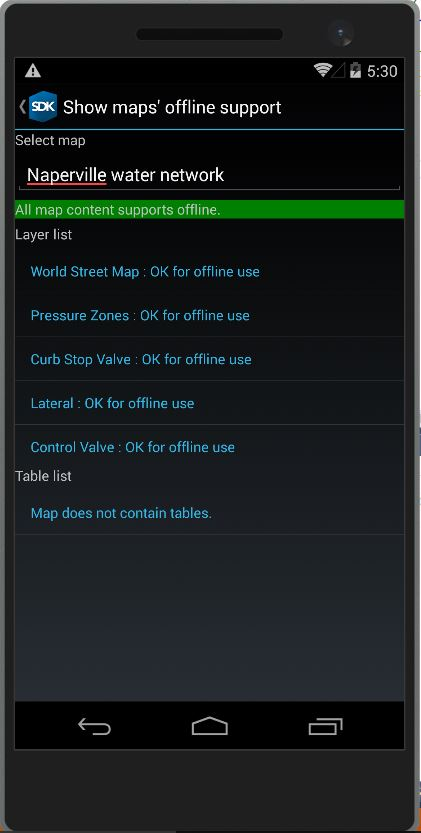
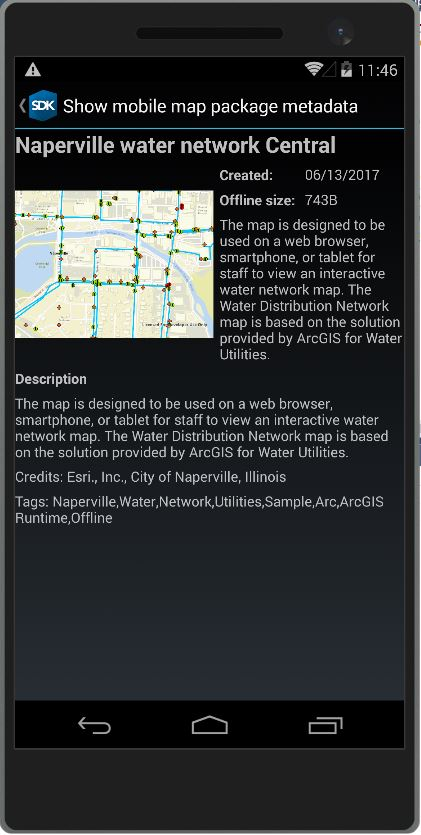
Updated ShowMobileMapPackage sample.

diff --git a/src/Forms/Shared/Samples/Offline/ShowMobileMapPackage/ShowMobileMapPackage.xaml b/src/Forms/Shared/Samples/Offline/ShowMobileMapPackage/ShowMobileMapPackage.xaml
@@ -4,20 +4,76 @@
              xmlns:esriUI="clr-namespace:Esri.ArcGISRuntime.Xamarin.Forms;assembly=Esri.ArcGISRuntime.Xamarin.Forms"
              x:Class="ArcGISRuntimeXamarin.Samples.ShowMobileMapPackage.ShowMobileMapPackage">
     <Grid>
-        <Grid.RowDefinitions>
-            <RowDefinition Height="Auto" />
-            <!-- Status label -->
-            <RowDefinition Height="Auto" />
-            <!-- Download button -->
-            <RowDefinition Height="*" />
-            <!-- MapView -->
-        </Grid.RowDefinitions>
-        <Label x:Name="Status"
-               Text="Opening offline map..." />
-        <Button x:Name="Download"
-                Text="Download Data"
-                Clicked="OnDownloadDataClicked"
-                IsVisible="False"
-                Grid.Row="1" />
+        <Grid x:Name="ItemInfo"
+              IsVisible="False">
+            <Grid.RowDefinitions>
+                <RowDefinition Height="Auto" />                <!-- title -->
+                <RowDefinition Height="Auto" />                <!-- thumbnail, creation date, size, snippet -->
+                <RowDefinition Height="Auto" />                <!-- description label -->
+                <RowDefinition Height="Auto" />                <!-- description -->
+                <RowDefinition Height="Auto" />                <!-- credits -->
+                <RowDefinition Height="Auto" />                <!-- tags -->
+            </Grid.RowDefinitions>
+            <Label x:Name="ItemTitle"
+                   FontSize="Large"
+                   FontAttributes="Bold" />
+            <Grid Grid.Row="1">
+                <Grid.ColumnDefinitions>
+                    <ColumnDefinition Width="Auto" />
+                    <ColumnDefinition Width="*" />
+                </Grid.ColumnDefinitions>
+                <Image x:Name="ItemImage"
+                       HeightRequest="200" 
+                       WidthRequest="200"/>
+                <Grid Grid.Column="1">
+                    <Grid.RowDefinitions>
+                        <RowDefinition Height="Auto" />                       <!-- Creation date -->
+                        <RowDefinition Height="Auto" />                       <!-- Size -->
+                        <RowDefinition Height="Auto" />                       <!-- Snippet -->
+                    </Grid.RowDefinitions>
+                    <Grid.ColumnDefinitions>
+                        <ColumnDefinition Width="Auto" />
+                        <ColumnDefinition Width="*" />
+                    </Grid.ColumnDefinitions>
+                    <Label Text="Created: "
+                           FontAttributes="Bold" />
+                    <Label x:Name="ItemCreationDate"
+                           Grid.Column="1" />
+                    <Label Text="Offline size: "
+                           FontAttributes="Bold"
+                           Grid.Row="1" />
+                    <Label x:Name="ItemSize"
+                           Grid.Row="1"
+                           Grid.Column="1" />
+                    <Label x:Name="ItemSnippet"
+                           Grid.Row="2"
+                           Grid.ColumnSpan="2" />
+                </Grid>
+            </Grid>
+            <Label Text="Description"
+                   FontSize="14"
+                   FontAttributes="Bold"
+                   Grid.Row="2" />
+            <Label x:Name="ItemDescription"
+                   Grid.Row="3" />
+            <Label x:Name="ItemCredits"
+                   Grid.Row="4" />
+            <Label x:Name="ItemTags"
+                   Grid.Row="5" />
+        </Grid>
+        <Grid x:Name="DownloadInfo"
+              BackgroundColor="Black"
+              IsVisible="False">
+            <Grid.RowDefinitions>
+                <RowDefinition Height="Auto" />
+                <!-- Status -->
+                <RowDefinition Height="Auto" />
+                <!-- Download button -->
+            </Grid.RowDefinitions>
+            <Label Text="Please download the data for the sample." />
+            <Button Text="Download Data"
+                    Clicked="OnDownloadDataClicked"
+                    Grid.Row="1" />
+        </Grid>
     </Grid>
 </ContentPage>

diff --git a/src/Forms/Shared/Samples/Offline/ShowMobileMapPackage/ShowMobileMapPackage.xaml.cs b/src/Forms/Shared/Samples/Offline/ShowMobileMapPackage/ShowMobileMapPackage.xaml.cs
@@ -8,8 +8,15 @@
 // language governing permissions and limitations under the License.
 
 using ArcGISRuntimeXamarin.Managers;
+using Esri.ArcGISRuntime.Mapping;
+using Esri.ArcGISRuntime.Symbology;
 using System;
+using System.IO;
+using System.Linq;
+using System.Text.RegularExpressions;
+using System.Threading.Tasks;
 using Xamarin.Forms;
+
 
 namespace ArcGISRuntimeXamarin.Samples.ShowMobileMapPackage
 {
@@ -21,7 +28,63 @@ namespace ArcGISRuntimeXamarin.Samples.ShowMobileMapPackage
             InitializeComponent();
 
             Title = "Show mobile map package metadata";
-            
+
+            InitializeAsync();
+        }
+
+        private async Task InitializeAsync()
+        {
+            try
+            {
+                // Get path to the used data. This can be a mobile map package (.mmpk) file or 
+                // an exploded mobile map package (folder that contains .info file).
+                var dataPath = Path.Combine(DataManager.GetDataFolder(),
+                    "SampleData", "Show mobile map package metadata", "NaperilleWaterNetwork_mmpk");
+                
+                // Open a local mobile map package
+                var myMobileMapPackage = await MobileMapPackage.OpenAsync(dataPath);
+
+                ItemTitle.Text = myMobileMapPackage.Item.Title;
+
+                var stream = await myMobileMapPackage.Item.Thumbnail.GetEncodedBufferAsync();
+                ItemImage.Source = ImageSource.FromStream(() => stream);
+
+                ItemCreationDate.Text = myMobileMapPackage.Item.Created.ToLocalTime().ToString("MM/dd/yyyy HH:mm:ss");
+                ItemSnippet.Text = myMobileMapPackage.Item.Snippet;
+                ItemDescription.Text = RemoveHtmlTags(myMobileMapPackage.Item.Description);
+                ItemCredits.Text = $"Credits: {myMobileMapPackage.Item.AccessInformation}";
+                ItemTags.Text = $"Tags: {string.Join(",", myMobileMapPackage.Item.Tags)}";
+
+                ItemSize.Text = BytesToString(Directory.GetFiles(dataPath, "*", SearchOption.AllDirectories).Sum(f => f.Length));
+
+                ItemInfo.IsVisible = true;
+                DownloadInfo.IsVisible = false;                 
+            }
+            catch (FileNotFoundException)
+            {
+                ItemInfo.IsVisible = false;
+                DownloadInfo.IsVisible = true;
+            }
+            catch (Exception ex)
+            {
+                await DisplayAlert("Error", ex.Message, "OK");
+            }
+        }
+
+        private string BytesToString(long byteCount)
+        {
+            string[] suf = { "B", "KB", "MB", "GB", "TB", "PB", "EB" }; // Longs run out around EB
+            if (byteCount == 0)
+                return "0" + suf[0];
+            long bytes = Math.Abs(byteCount);
+            int place = Convert.ToInt32(Math.Floor(Math.Log(bytes, 1024)));
+            double num = Math.Round(bytes / Math.Pow(1024, place), 1);
+            return (Math.Sign(byteCount) * num).ToString() + suf[place];
+        }
+
+        private string RemoveHtmlTags(string html)
+        {
+            return Regex.Replace(html, "<.+?>", string.Empty);
         }
 
         private async void OnDownloadDataClicked(object sender, EventArgs e)
